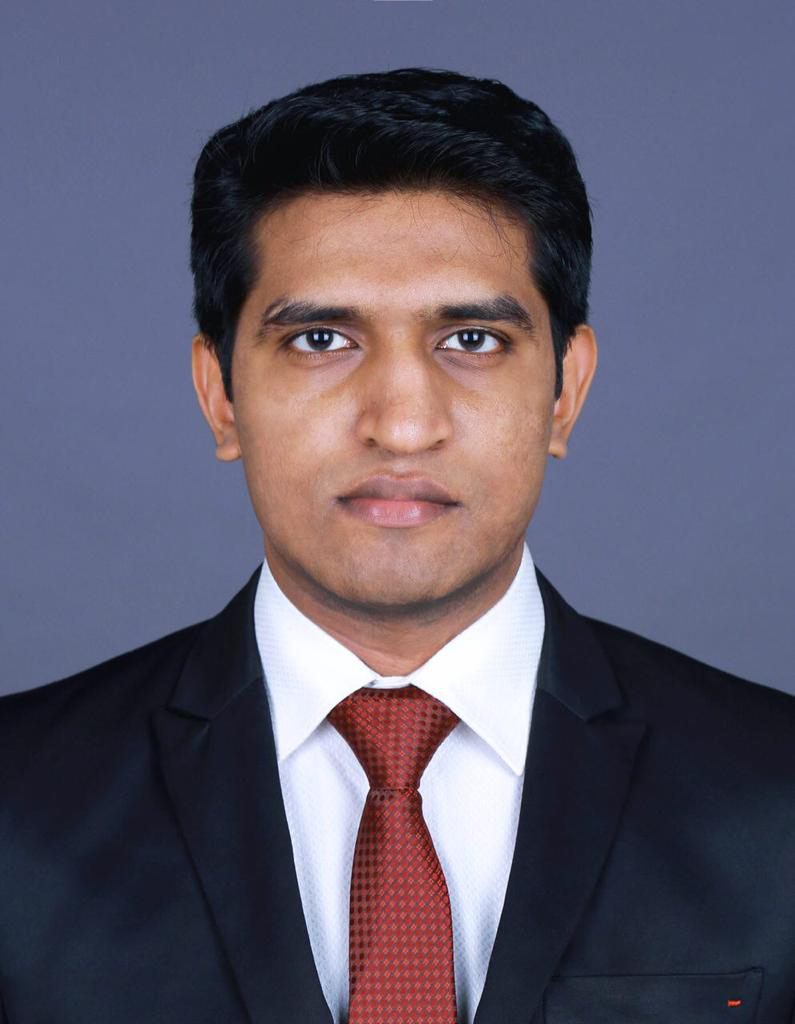
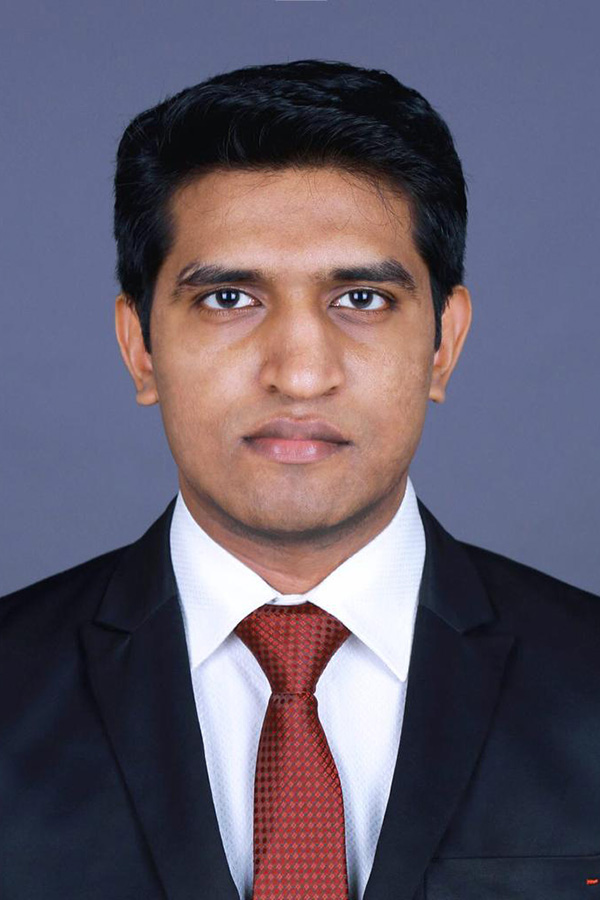
Added partner section

diff --git a/dev.html b/dev.html
@@ -54,35 +54,21 @@
     <div class="view jarallax pages home-page">
       <img class="jarallax-img lazyload" data-src="public/img/bg/bgw.jpg">
       <div class="mask d-flex justify-content-center align-items-center">
-        <div class="text-center mx-5 unicontent wow fadeIn">
-          <img class="img-fluid m-auto" src="public/img/logo/LOGO.png">
+        <div class="text-center wow fadeIn">
+          <img class="img-fluid m-auto" src="public/img/logo/single-logo.png">
           <h2 class="titleFont display-3 mb-2 pt-0" style="color:black;font-weight:800;">
             Jwala Diamonds &amp; Jewellers
           </h2>
+          <br>
+          <br>
+          <h4><sup><i class="fas fa-quote-left mr-3"></i></sup>MANUFACTURER WITH</h4>
+          <h4>ORNAMENTAL VIRTUE<sup><i class="fas fa-quote-right ml-3"></i></sup></h4>
         </div>
         <div class="scroll-down-button">
           <a class="scrollTo" href="#nav-about"><span class="black-arrow"></span></a>
         </div>
       </div>
     </div>
-    <!-- GALLERY
-        <div class="view jarallax pages gallery-page">
-            <div id="nav-gallery">
-                <div id="carouselExampleFade" class="jarallax-img carousel slide carousel-fade" style="height: 100vh;" data-ride="carousel">
-                    <div class="carousel-inner">
-                        <div class="carousel-item active">
-                            <img class="d-block w-100" src="public/img/gallery/Model1.jpg" alt="First slide">
-                        </div>
-                        <div class="carousel-item">
-                            <img class="d-block w-100" src="public/img/gallery/Model2.jpg" alt="Second slide">
-                        </div>
-                        <div class="carousel-item">
-                            <img class="d-block w-100" src="public/img/gallery/Model3.jpg" alt="Third slide">
-                        </div>
-                    </div>
-                </div>
-            </div>
-        </div> -->
     <!-- ABOUT -->
     <div class="view jarallax pages about-page">
       <div id="nav-about"></div>
@@ -126,6 +112,21 @@
           <div class="col-md-3 d-none d-md-block text-center">
             <img style="width: 100%" class="lazyload wow-in card" data-wow-delay="0.3s" data-src="public/img/profile/ceo.jpg">
             <div class="spacer-2"></div>
+          </div>
+        </div>
+        <div class="row">
+          <div class="col-md-12">
+            <div class="spacer-3"></div>
+          </div>
+        </div>
+        <div class="row">
+          <div class="col-md-3 flex-center mb-5">
+            <img style="width: 100%" class="lazyload wow-in card w-md-50" data-wow-delay="0.3s" data-src="public/img/profile/sp.jpg">
+          </div>
+          <div class="col-md-6 text-left">
+            <h3>Our Partner</h3>
+            <p>Mrs. Maggie Johny is one of the Partners of Jwala Diamonds and Jewellers. She is very skilled at signing documents for the companny and being very supportive in the growth of the company.</p>
+            <small>Contact: <a class="white-text" href="mailto:hq@jwala.diamonds">hq@jwala.diamonds</a></small>
           </div>
         </div>
         <div class="row">
@@ -419,15 +420,16 @@
       </div>
       <div class="spacer-2"></div>
       <div id="map-container-google" class="z-depth-1-half map-container">
-        <iframe src="https://www.google.com/maps/embed/v1/place?key=AIzaSyCGAy2eC1SLmTpI6aw4mkphqBn1nFmDd34&q=place_id:ChIJuca-aqXvpzsR__U5x9vc0Kg" frameborder="0" style="border:0" allowfullscreen></iframe>
+        <iframe src="https://www.google.com/maps/embed/v1/place?key=AIzaSyCGAy2eC1SLmTpI6aw4mkphqBn1nFmDd34&q=place_id:ChIJexD4vknupzsR20A0b1iUbnY" frameborder="0" style="border:0" allowfullscreen></iframe>
       </div>
-      <div class="container">
-        <div class="row">
-          <div class="col-lg-2 offset-lg-5 col-md-4 offset-md-4 col-sm-6 offset-sm-3 col-8 offset-2">
-            <img class="lazyload w-100" data-src="public/img/designs/footer-image.png"></div>
+      <div class="footer-copyright text-center pb-3 pt-5">
+        <div class="container">
+          <div class="row">
+            <div class="col-lg-2 offset-lg-5 col-md-4 offset-md-4 col-sm-6 offset-sm-3 col-8 offset-2">
+              <img class="lazyload w-100" data-src="public/img/designs/footer-image.png"></div>
+          </div>
         </div>
-      </div>
-      <div class="footer-copyright text-center py-3">&copy; <span class="number">2019</span>
+        &copy; <span class="number">2019</span>
         <a href="https://jwala.diamonds">Jwala Diamonds &amp; Jewellers</a>
       </div>
     </footer>
@@ -453,7 +455,6 @@
           <!--  Controls are self-explanatory. Order can be changed. -->
           <div class="pswp__counter"></div>
           <button class="pswp__button pswp__button--close" title="Close (Esc)"></button>
-          <button class="pswp__button pswp__button--share" title="Share"></button>
           <button class="pswp__button pswp__button--fs" title="Toggle fullscreen"></button>
           <button class="pswp__button pswp__button--zoom" title="Zoom in/out"></button>
           <!-- Preloader demo https://codepen.io/dimsemenov/pen/yyBWoR -->
